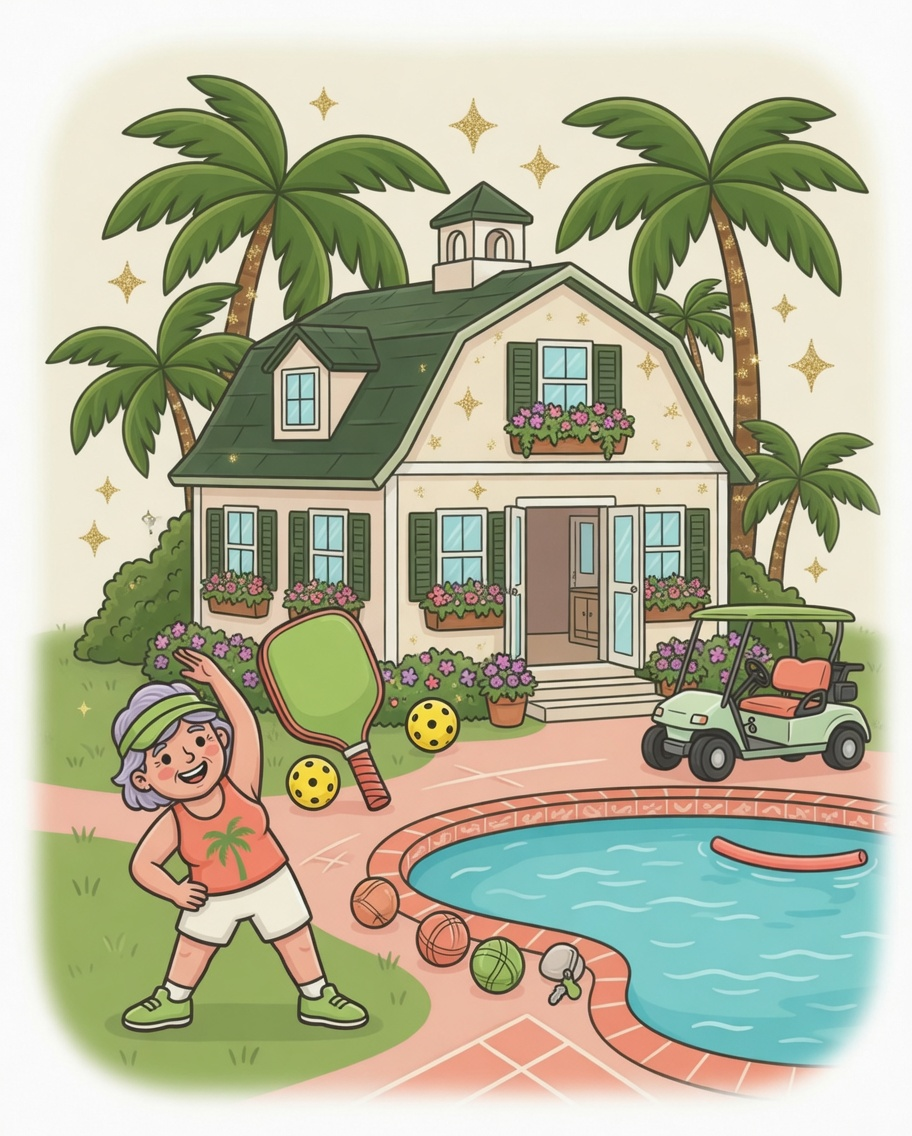
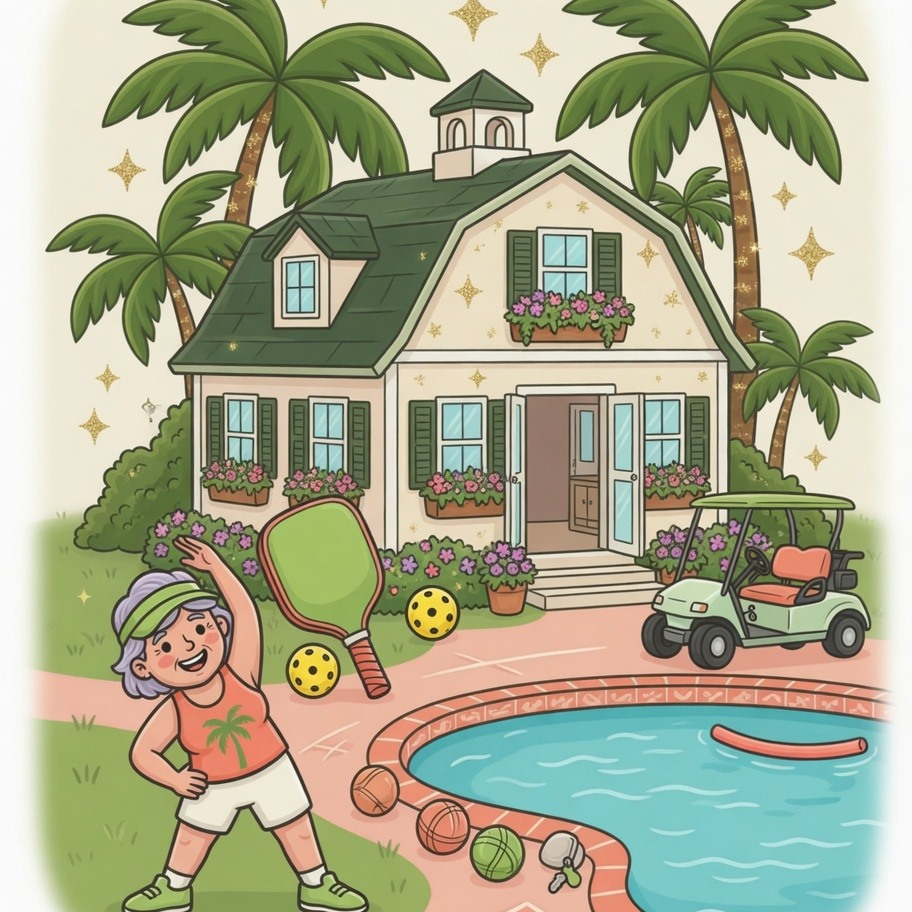
Fix Rec Centers card art to uniform square size.

diff --git a/src/app/globals.css b/src/app/globals.css
@@ -2632,17 +2632,22 @@ a.ts-square-card:hover .ts-square-card-img {
 }
 
 .rc-preview-art {
+  position: relative;
   border-radius: 18px;
   overflow: hidden;
   border: 1px solid var(--line);
   background: #fff8ee;
   aspect-ratio: 1;
+  min-height: 0;
 }
 
 .rc-preview-img {
+  position: absolute;
+  inset: 0;
   width: 100%;
   height: 100%;
   object-fit: cover;
+  object-position: center;
   display: block;
 }
 
@@ -2799,14 +2804,20 @@ a.ts-square-card:hover .ts-square-card-img {
 }
 
 .rc-thumb-art {
+  position: relative;
   aspect-ratio: 1;
+  overflow: hidden;
+  min-height: 0;
   background: rgba(28, 36, 48, 0.04);
 }
 
 .rc-thumb-img {
+  position: absolute;
+  inset: 0;
   width: 100%;
   height: 100%;
   object-fit: cover;
+  object-position: center;
   display: block;
 }
 
@@ -2830,8 +2841,10 @@ a.ts-square-card:hover .ts-square-card-img {
 }
 
 .rc-hero-figure {
+  position: relative;
   margin: 0 auto;
   max-width: 520px;
+  aspect-ratio: 1;
   border-radius: 22px;
   overflow: hidden;
   border: 1px solid var(--line);
@@ -2840,8 +2853,12 @@ a.ts-square-card:hover .ts-square-card-img {
 }
 
 .rc-hero-img {
+  position: absolute;
+  inset: 0;
   width: 100%;
-  height: auto;
+  height: 100%;
+  object-fit: cover;
+  object-position: center;
   display: block;
 }
 
